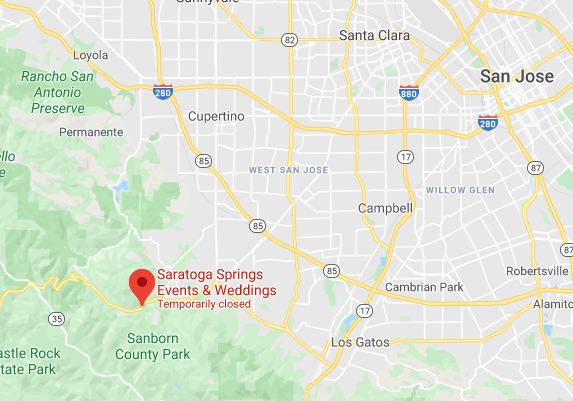
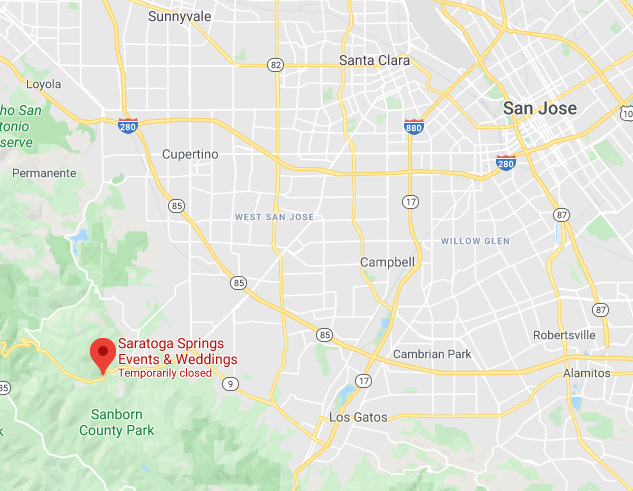
update the map

diff --git a/index.css b/index.css
@@ -315,7 +315,8 @@ hr {
     width: 327px;
     height: 295px;
     background-image: url(imgs/map.png);
-    background-position: -80px -100px;
+    background-size: 140%;
+    background-position: -10px -20px;
     margin: auto;
 }
 
